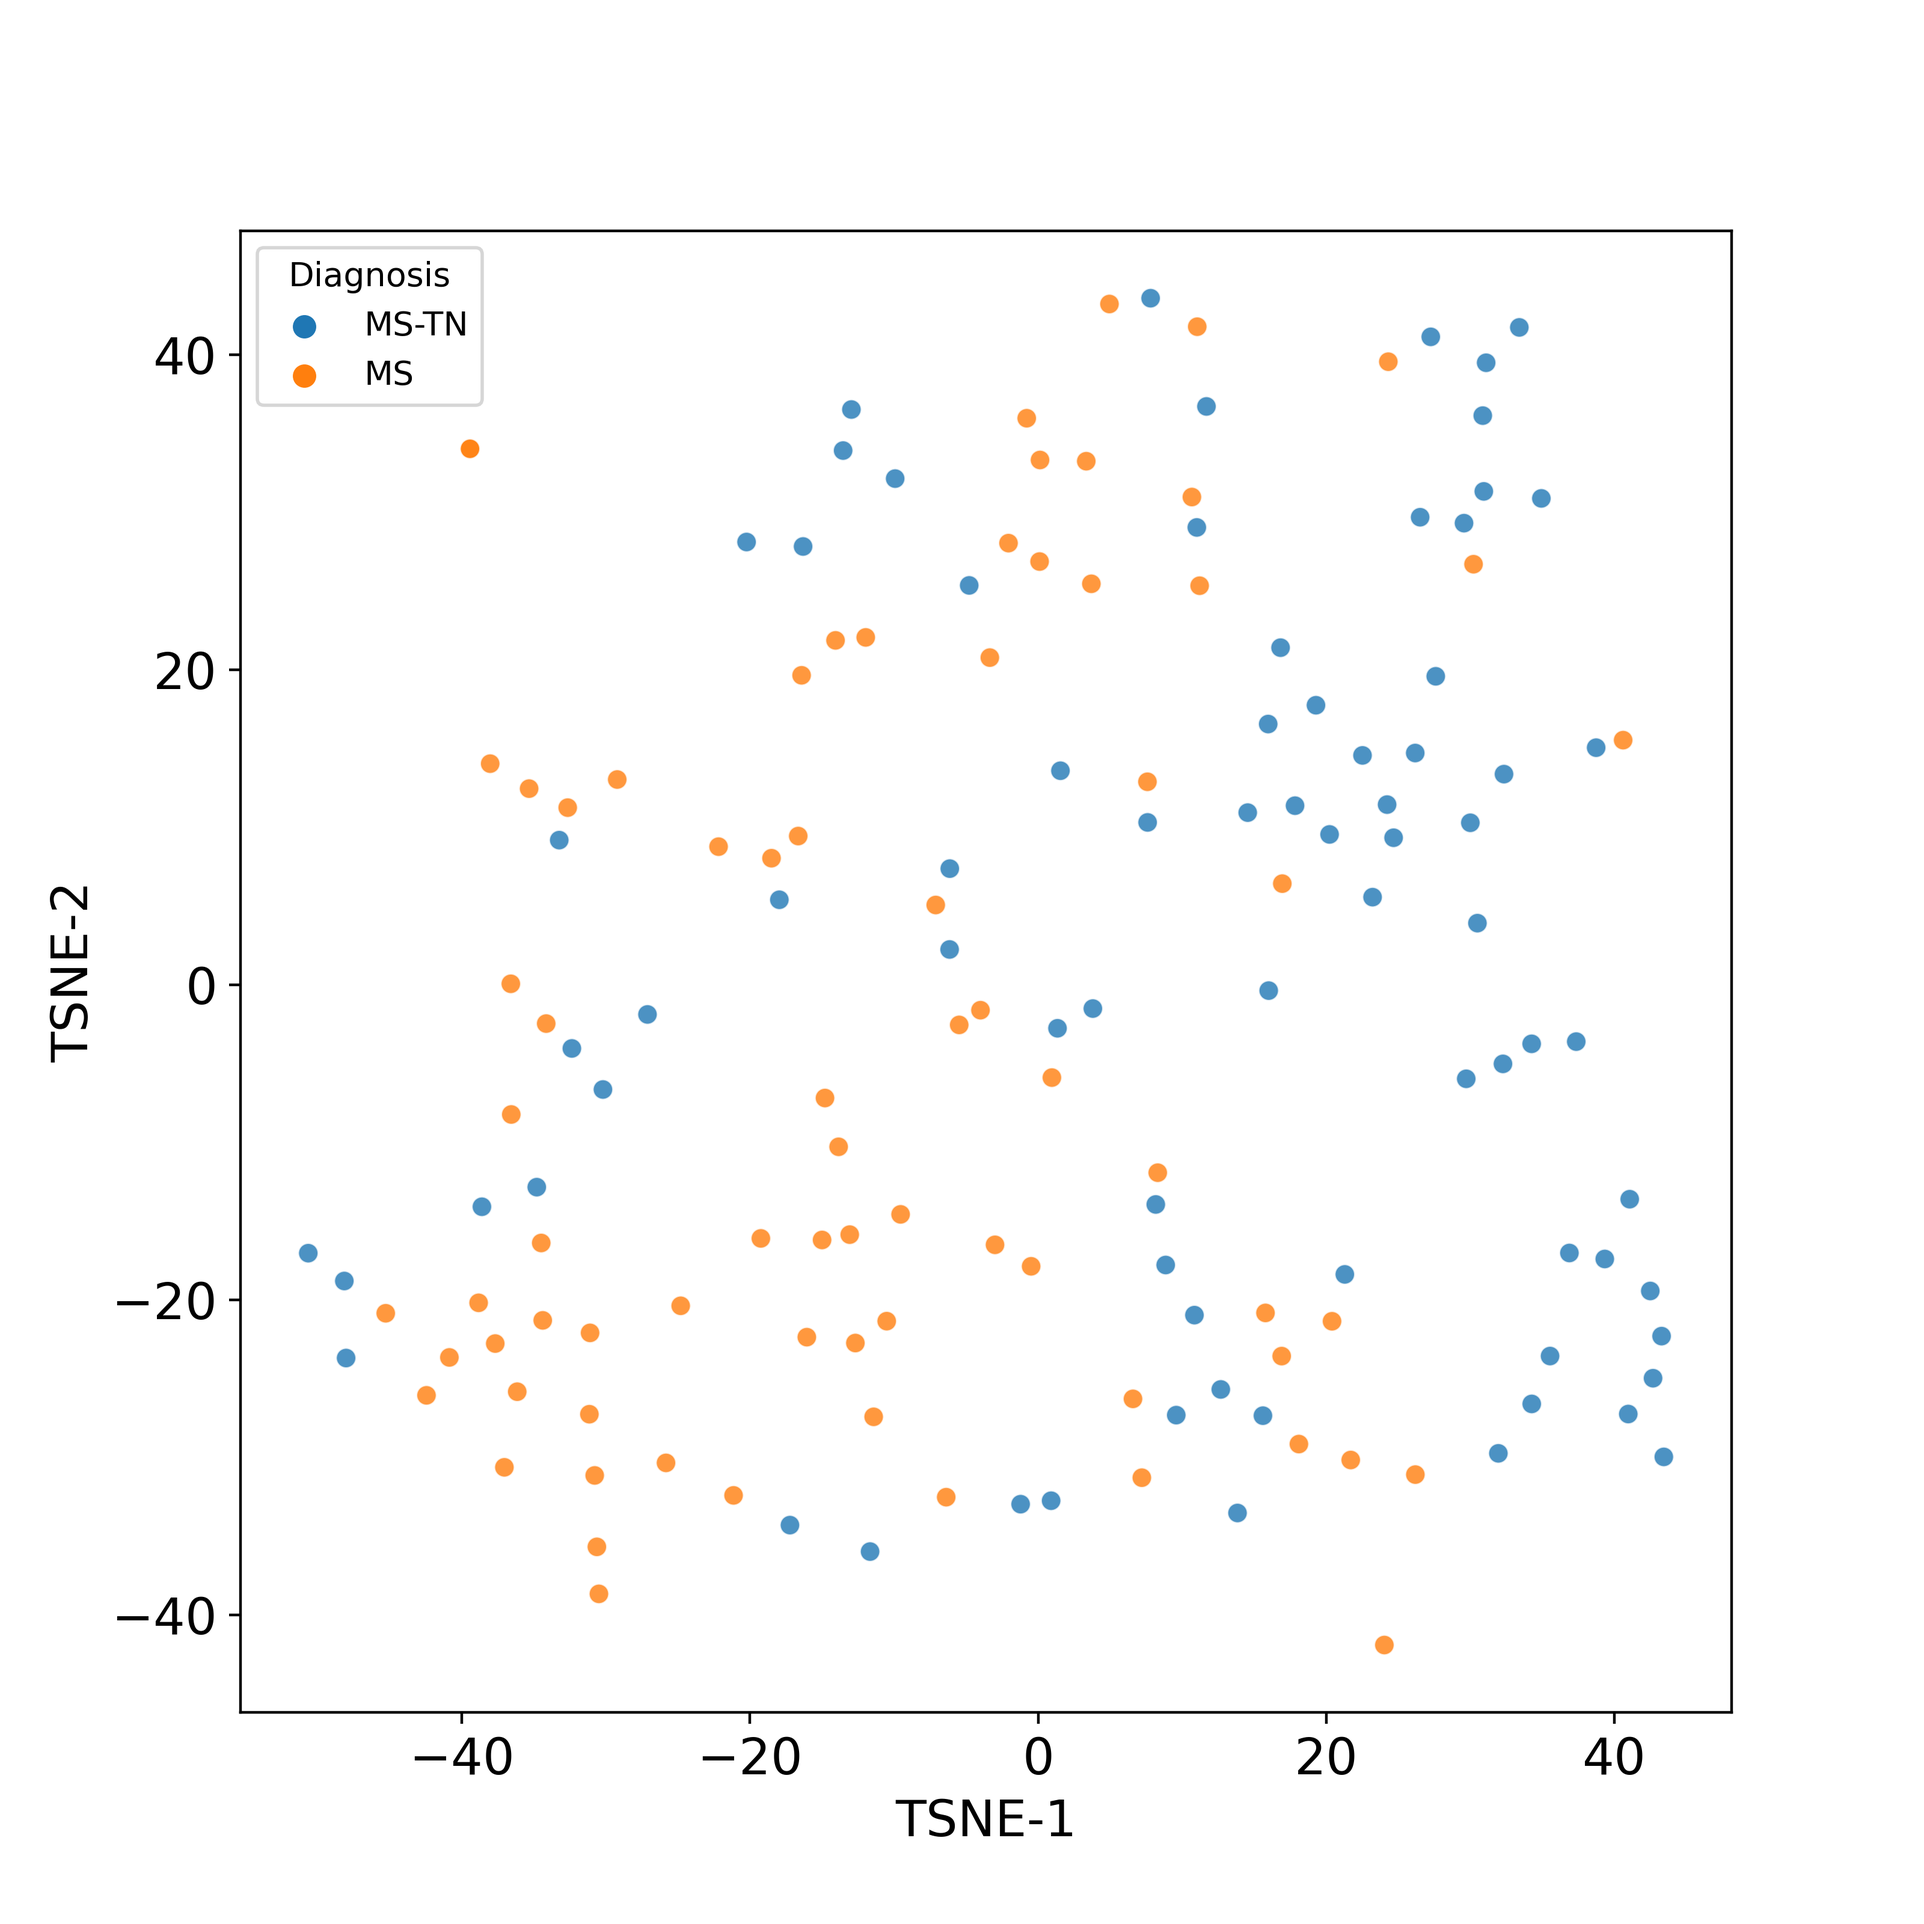
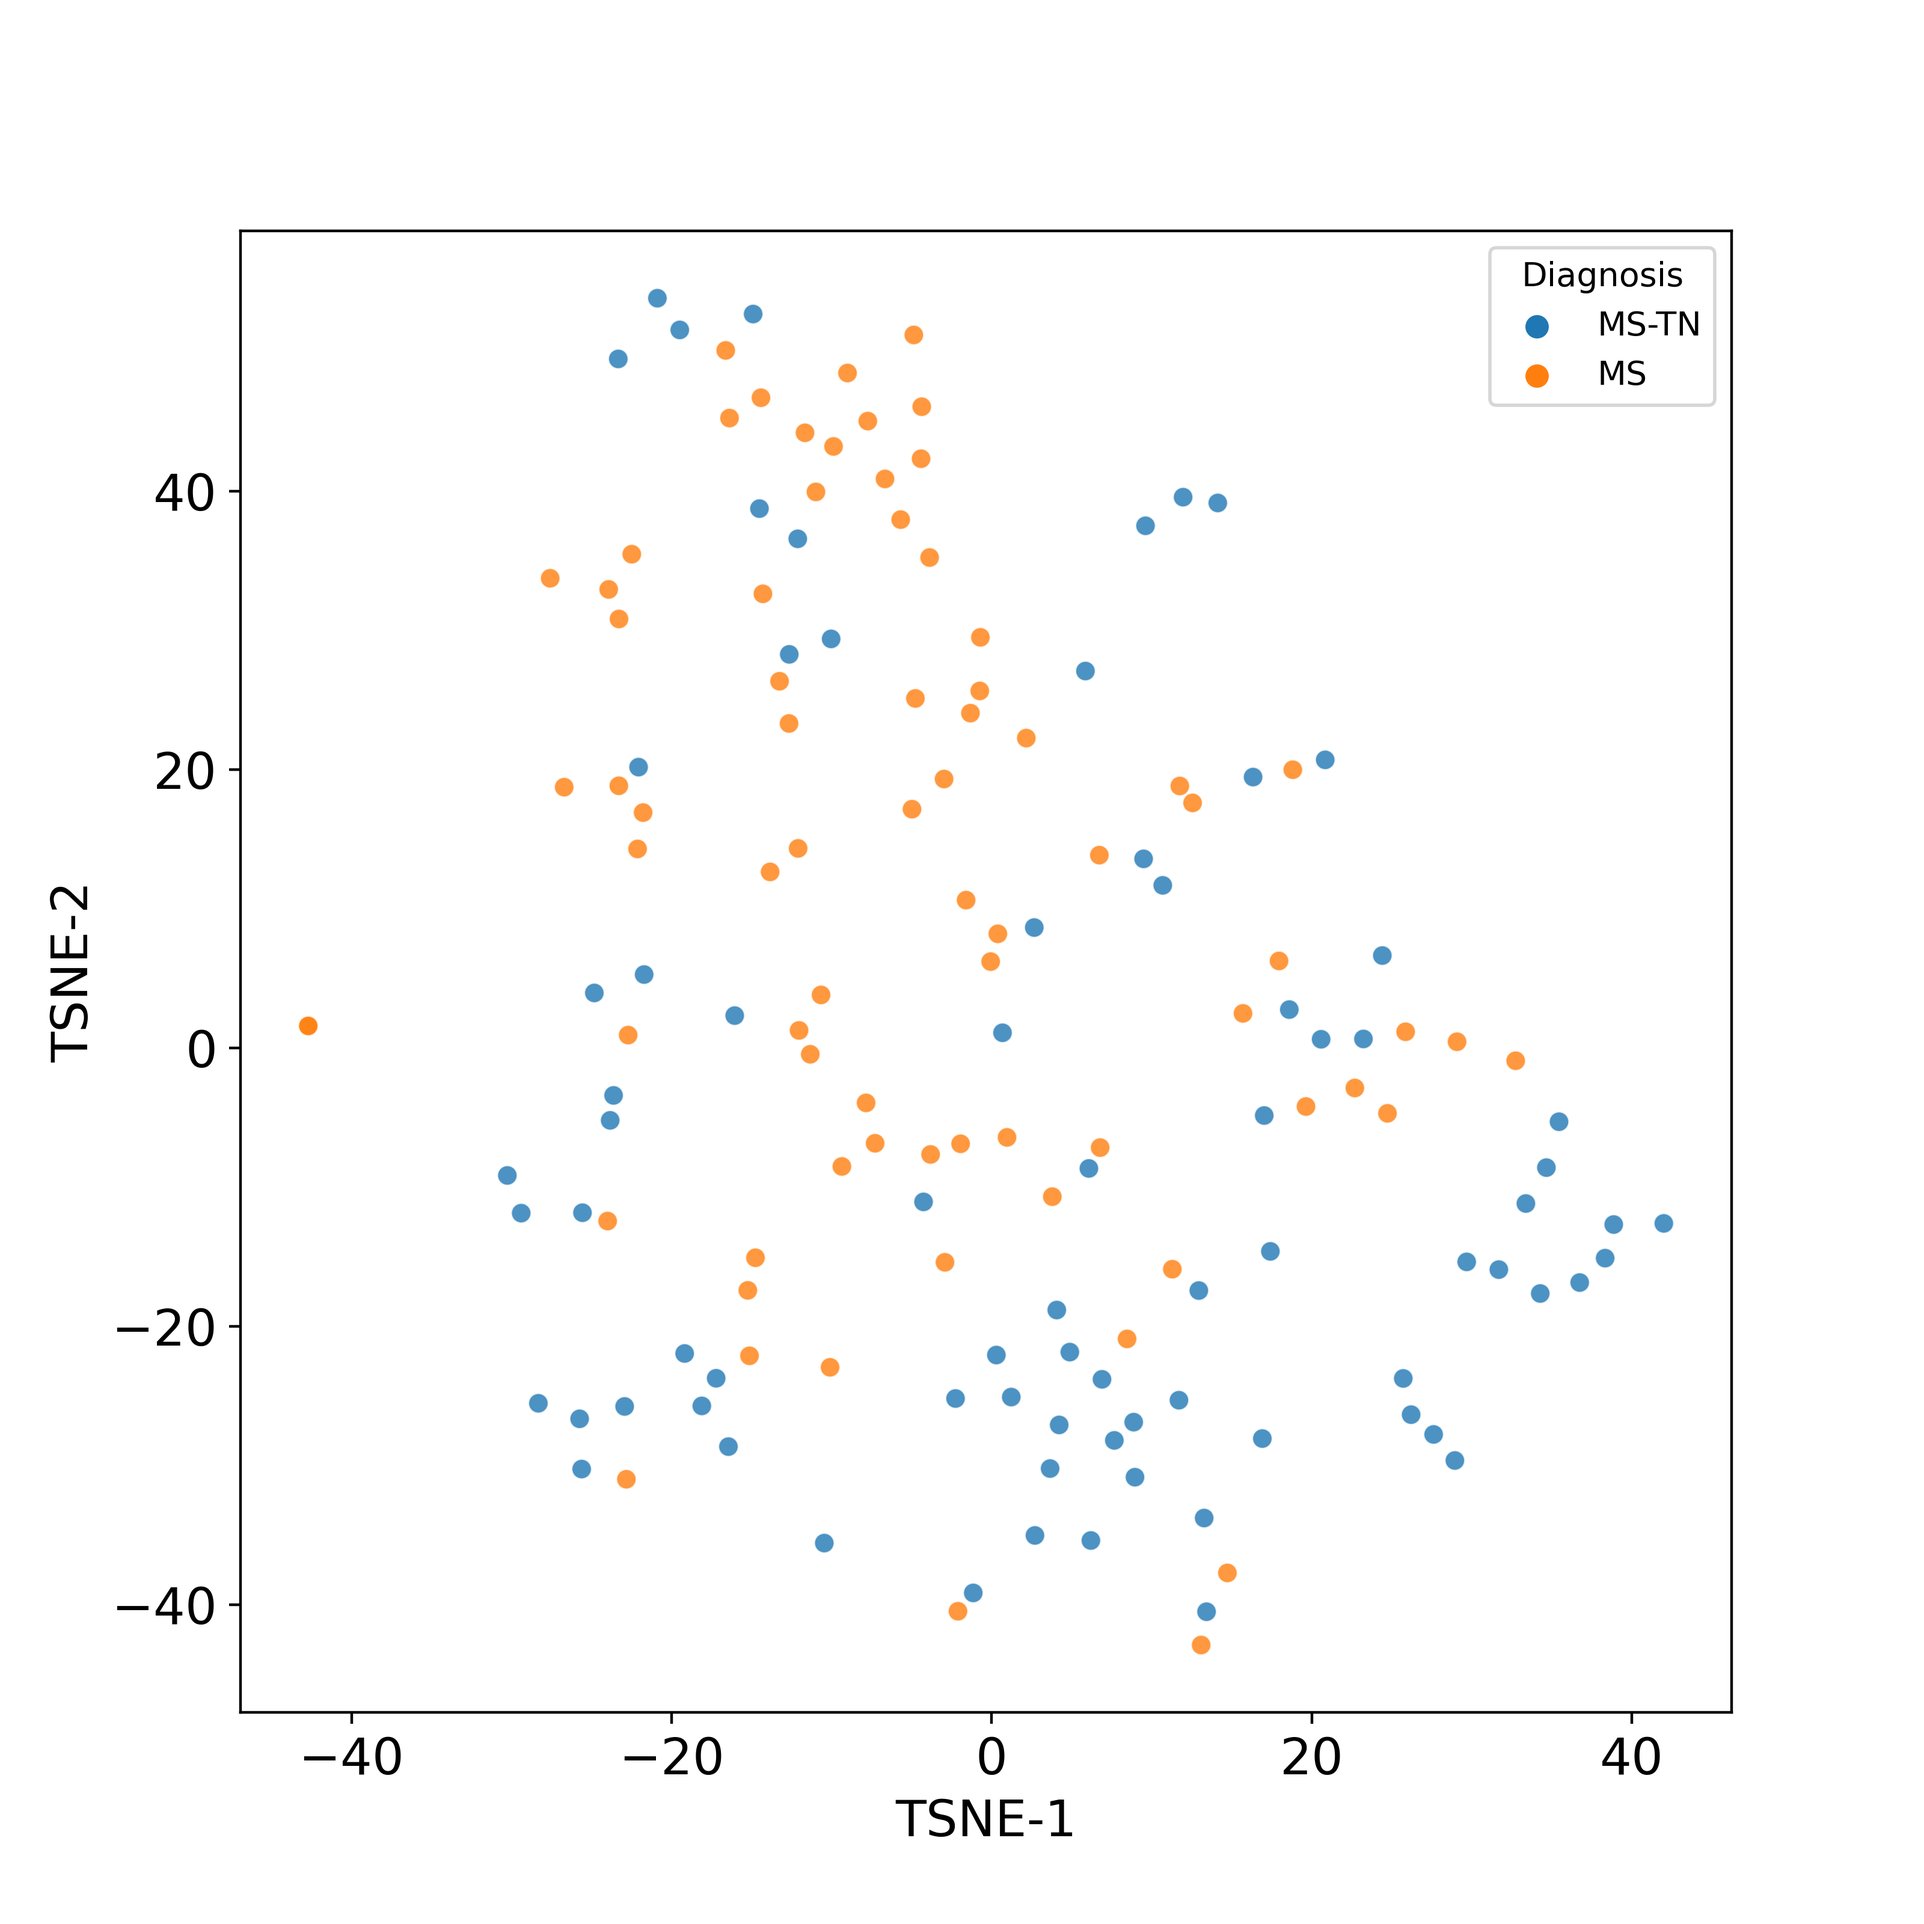
modified tsne and rerun

diff --git a/tsne.py b/tsne.py
@@ -65,7 +65,7 @@ def main():
     # plot
     plt.figure(figsize=(8,8))
     sns.scatterplot(tsne_df, x="TSNE-1", y="TSNE-2", hue='diagnosis', sizes=10, alpha=0.8)
-    plt.legend(loc='upper left', title='Diagnosis', fontsize='medium')
+    plt.legend(loc='upper right', title='Diagnosis', fontsize='medium')
     plt.tick_params(axis='both', which='major', labelsize=15)
     plt.xlabel('TSNE-1', fontsize=15)
     plt.ylabel('TSNE-2', fontsize=15)
@@ -75,23 +75,23 @@ def main():
     fig.subplots_adjust(hspace=0.3, wspace=0.3)
 
     sns.scatterplot(ax=ax[1, 0], data=tsne_df, x="TSNE-1", y="TSNE-2", hue='duration_categories', hue_order = ['<5', '5-10', '10-15', '10-15', '15-20', '>20'], sizes=5, alpha=0.8)
-    ax[1, 0].legend(loc='upper left', title='Sex', fontsize='small')
+    ax[1, 0].legend(loc='upper right', title='Duration of MS', fontsize='small')
     ax[1, 0].tick_params(axis='both', which='major', labelsize=15)
     # change size of axis subtitles TSNE-1 and TSNE-2
     ax[1, 0].set_xlabel('TSNE-1', fontsize=15)
     ax[1, 0].set_ylabel('TSNE-2', fontsize=15)
     sns.scatterplot(ax=ax[0, 0], data=tsne_df, x="TSNE-1", y="TSNE-2", hue='sex', palette=['#4FB6D5', '#EC5C71'], sizes=5, alpha=0.8)
-    ax[0, 0].legend(loc='upper left', title='Diagnosis', fontsize='small')
+    ax[0, 0].legend(loc='upper right', title='Sex', fontsize='small')
     ax[0, 0].tick_params(axis='both', which='major', labelsize=15)
     ax[0, 0].set_xlabel('TSNE-1', fontsize=15)
     ax[0, 0].set_ylabel('TSNE-2', fontsize=15)
     sns.scatterplot(ax=ax[0, 1], data=tsne_df, x="TSNE-1", y="TSNE-2", hue='scanner', sizes=5, alpha=0.8)
-    ax[0, 1].legend(loc='upper left', title='Scanner', fontsize='small')
+    ax[0, 1].legend(loc='upper right', title='Scanner', fontsize='small')
     ax[0, 1].tick_params(axis='both', which='major', labelsize=15)
     ax[0, 1].set_xlabel('TSNE-1', fontsize=15)
     ax[0, 1].set_ylabel('TSNE-2', fontsize=15)
     sns.scatterplot(ax=ax[1, 1], data=tsne_df, x="TSNE-1", y="TSNE-2", hue='age', sizes=5, alpha=0.8)
-    ax[1, 1].legend(loc='upper left', title='Age', fontsize='small')
+    ax[1, 1].legend(loc='upper right', title='Age', fontsize='small')
     ax[1, 1].tick_params(axis='both', which='major', labelsize=15)
     ax[1, 1].set_xlabel('TSNE-1', fontsize=15)
     ax[1, 1].set_ylabel('TSNE-2', fontsize=15)
